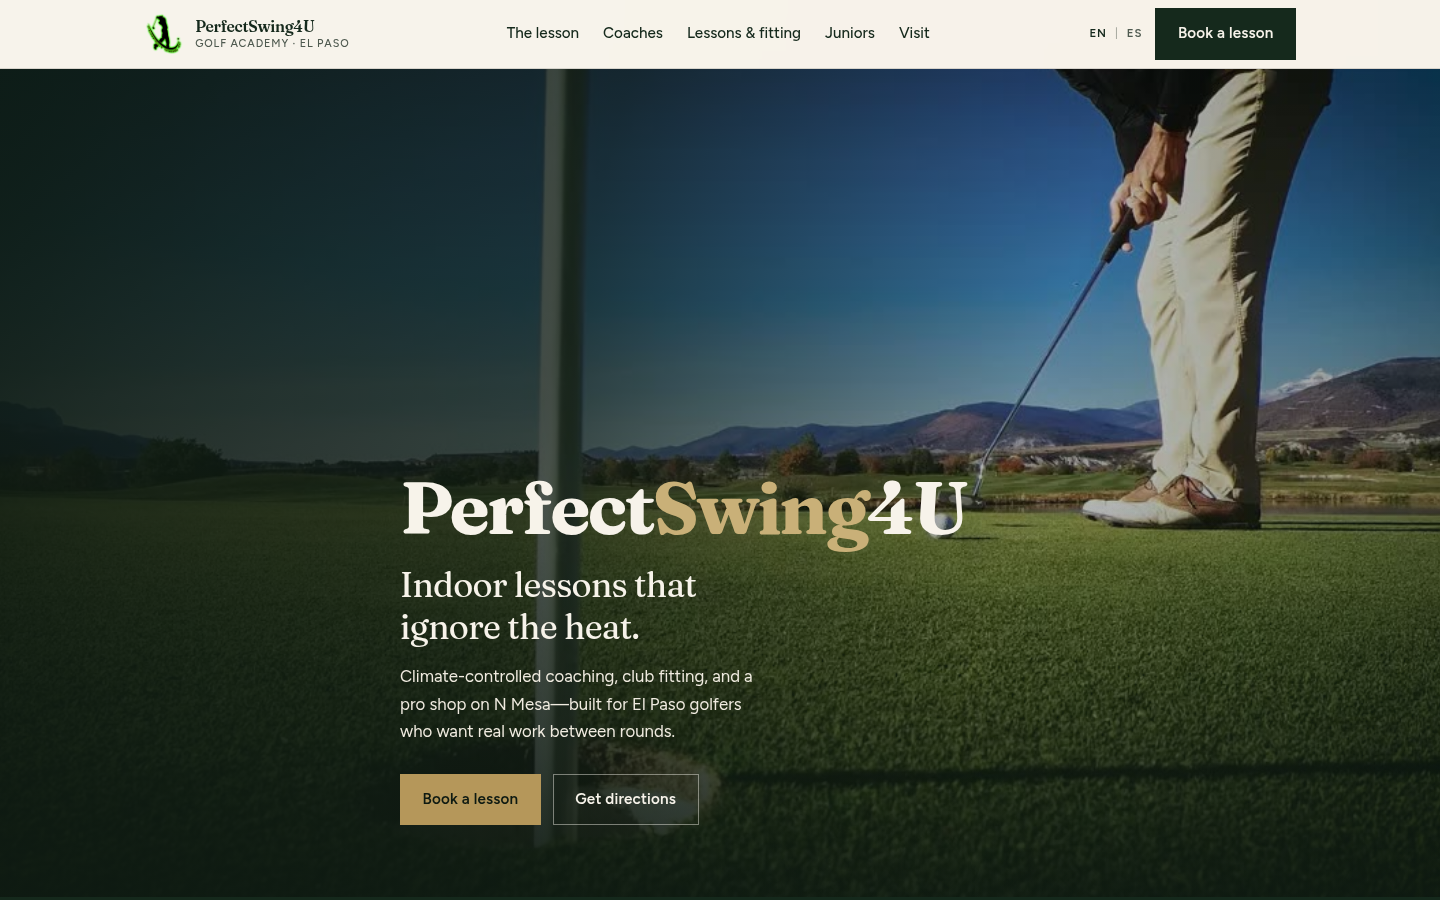
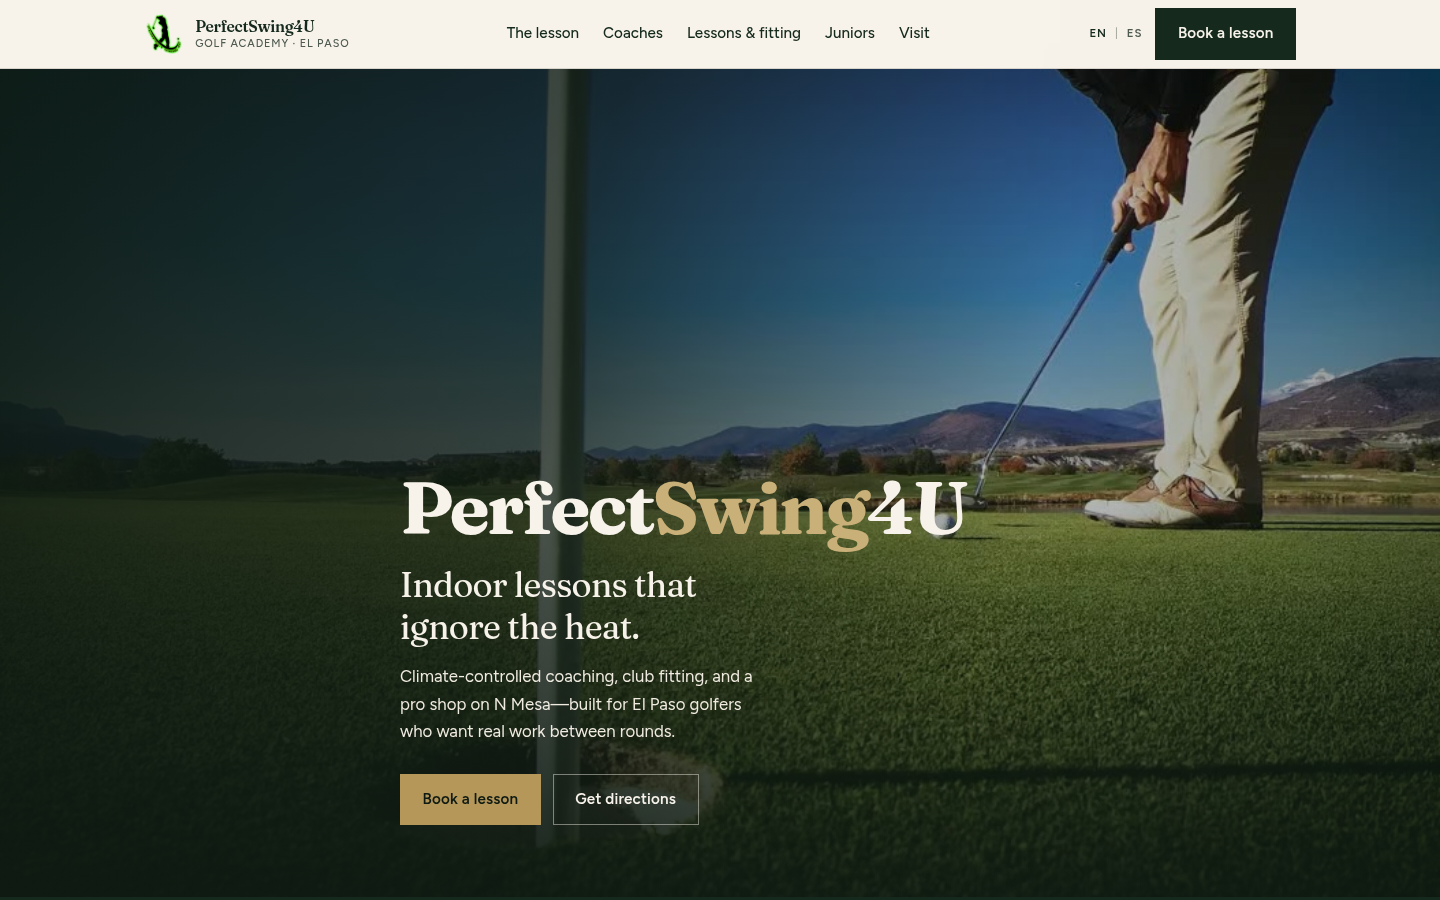
Fix Draft A review: mobile hero crop, domain, credentials
Reposition the mobile hero so type sits on clean space, drop Fort Bliss,
point canonical/OG/JSON-LD at perfectswing4u.com with geo, and keep only
credential badges in Yaser’s list (tools + U.S. Kids live in the bio).

diff --git a/i18n.js b/i18n.js
@@ -17,7 +17,7 @@ window.PS4U_I18N = {
     "hero.lead": "Climate-controlled coaching, club fitting, and a pro shop on N Mesa—built for El Paso golfers who want real work between rounds.",
     "hero.directions": "Get directions",
     "intro.main": "One indoor bay. Two coaches. Launch-monitor numbers you can trust when the desert is at 100°.",
-    "intro.aside": "Perfect Swing 4U Golf Academy is an indoor, climate-controlled studio for instruction, fitting, and equipment—serving beginners through advanced players, including juniors, high schoolers, women, and military and veterans near Fort Bliss.",
+    "intro.aside": "Perfect Swing 4U Golf Academy is an indoor, climate-controlled studio for instruction, fitting, and equipment—serving beginners through advanced players, including juniors, high schoolers, women, and military and veterans.",
     "lesson.label": "What a lesson looks like",
     "lesson.title": "You hit. We measure. Then we coach.",
     "lesson.copy": "Sessions run one-on-one. Walk-ins are welcome when a coach is free, and we have clubs if you don’t bring your own.",
@@ -47,9 +47,7 @@ window.PS4U_I18N = {
     "yaser.cred3": "ADM certified",
     "yaser.cred4": "TPI Level 2",
     "yaser.cred5": "Capto Putting certified",
-    "yaser.cred6": "FlightScope, Capto putting, multi-angle video",
-    "yaser.cred7": "El Paso tour director for U.S. Kids Golf",
-    "yaser.bio": "“No two golfers are the same. I work closely with you to understand your strengths and areas for improvement, and develop a coaching plan tailored to your unique needs and goals.” Yaser’s methodology covers all three pillars: physical conditioning, mental preparation, and technical skills training working together as one system. With 13+ years playing competitive golf, he dedicated his career to sharing the game—bringing swing mechanics, Capto putting mastery, TPI fitness, and club fitting expertise under one roof.",
+    "yaser.bio": "“No two golfers are the same. I work closely with you to understand your strengths and areas for improvement, and develop a coaching plan tailored to your unique needs and goals.” Yaser’s methodology covers all three pillars: physical conditioning, mental preparation, and technical skills training working together as one system. With 13+ years playing competitive golf, he dedicated his career to sharing the game—bringing FlightScope launch-monitor work, multi-angle video, Capto putting mastery, TPI fitness, and club fitting under one roof. He also serves as El Paso tour director for U.S. Kids Golf.",
     "memo.name": "Memo",
     "memo.role": "Instructor & club fitting specialist",
     "memo.cred1": "Private and junior instruction",
@@ -141,7 +139,7 @@ window.PS4U_I18N = {
     "hero.lead": "Entrenamiento con clima controlado, ajuste de palos y pro shop en N Mesa—para golfistas de El Paso que quieren trabajo real entre rondas.",
     "hero.directions": "Cómo llegar",
     "intro.main": "Una bahía bajo techo. Dos coaches. Números de launch monitor en los que puedes confiar cuando el desierto marca 100°.",
-    "intro.aside": "Perfect Swing 4U Golf Academy es un estudio bajo techo con clima controlado para instrucción, fitting y equipo—de principiantes a avanzados, incluyendo junior, preparatoria, mujeres y militares y veteranos cerca de Fort Bliss.",
+    "intro.aside": "Perfect Swing 4U Golf Academy es un estudio bajo techo con clima controlado para instrucción, fitting y equipo—de principiantes a avanzados, incluyendo junior, preparatoria, mujeres y militares y veteranos.",
     "lesson.label": "Cómo es una clase",
     "lesson.title": "Tú pegas. Nosotros medimos. Luego entrenamos.",
     "lesson.copy": "Las sesiones son uno a uno. Aceptamos walk-ins cuando hay coach disponible, y tenemos palos si no traes los tuyos.",
@@ -171,9 +169,7 @@ window.PS4U_I18N = {
     "yaser.cred3": "Certificado ADM",
     "yaser.cred4": "TPI Level 2",
     "yaser.cred5": "Certificado Capto Putting",
-    "yaser.cred6": "FlightScope, putting Capto, video multiángulo",
-    "yaser.cred7": "Director de tour de El Paso para U.S. Kids Golf",
-    "yaser.bio": "“No two golfers are the same. I work closely with you to understand your strengths and areas for improvement, and develop a coaching plan tailored to your unique needs and goals.” La metodología de Yaser cubre tres pilares: condición física, preparación mental y técnica, trabajando como un solo sistema. Con más de 13 años de golf competitivo, dedicó su carrera a compartir el juego—mecánica de swing, putting con Capto, fitness TPI y expertise en club fitting bajo un mismo techo.",
+    "yaser.bio": "“No two golfers are the same. I work closely with you to understand your strengths and areas for improvement, and develop a coaching plan tailored to your unique needs and goals.” La metodología de Yaser cubre tres pilares: condición física, preparación mental y técnica, trabajando como un solo sistema. Con más de 13 años de golf competitivo, dedicó su carrera a compartir el juego—FlightScope, video multiángulo, putting con Capto, fitness TPI y club fitting bajo un mismo techo. También es director de tour de El Paso para U.S. Kids Golf.",
     "memo.name": "Memo",
     "memo.role": "Instructor y especialista en club fitting",
     "memo.cred1": "Instrucción privada y junior",

diff --git a/index.html b/index.html
@@ -6,7 +6,7 @@
   <title>Perfect Swing 4U Golf Academy | Indoor Coaching in El Paso, TX</title>
   <meta name="description" content="Indoor, climate-controlled golf instruction, club fitting, and a pro shop on N Mesa in El Paso. Book a lesson with PerfectSwing4U.">
   <meta name="theme-color" content="#15291c">
-  <link rel="canonical" href="https://perfectswing4u.org/">
+  <link rel="canonical" href="https://perfectswing4u.com/">
   <link rel="icon" type="image/png" href="assets/favicon.png">
 
   <meta property="og:type" content="website">
@@ -15,7 +15,7 @@
   <meta property="og:site_name" content="PerfectSwing4U">
   <meta property="og:title" content="Perfect Swing 4U Golf Academy | Indoor Coaching in El Paso">
   <meta property="og:description" content="Climate-controlled indoor golf lessons, FlightScope data, Capto putting, and club fitting at 5864 N Mesa St, Suite A, El Paso, TX.">
-  <meta property="og:url" content="https://perfectswing4u.org/">
+  <meta property="og:url" content="https://perfectswing4u.com/">
   <meta property="og:image" content="assets/swing-poster.jpg">
   <meta property="og:image:alt" content="Golfer mid-swing at Perfect Swing 4U Golf Academy">
 
@@ -37,10 +37,10 @@
     "name": "Perfect Swing 4U Golf Academy",
     "alternateName": "PerfectSwing4U",
     "description": "Indoor, climate-controlled golf instruction, club fitting, and pro shop in El Paso, TX.",
-    "url": "https://perfectswing4u.org/",
+    "url": "https://perfectswing4u.com/",
     "telephone": "+19154493613",
     "email": "perfectswing4u@gmail.com",
-    "image": "https://perfectswing4u.org/public/images/logo.webp",
+    "image": "https://perfectswing4u.com/assets/logo.webp",
     "address": {
       "@type": "PostalAddress",
       "streetAddress": "5864 N Mesa St, Suite A",
@@ -48,6 +48,11 @@
       "addressRegion": "TX",
       "postalCode": "79912",
       "addressCountry": "US"
+    },
+    "geo": {
+      "@type": "GeoCoordinates",
+      "latitude": 31.8281,
+      "longitude": -106.5267
     },
     "openingHoursSpecification": [
       {
@@ -129,7 +134,7 @@
       <div class="wrap intro-grid">
         <p data-i18n="intro.main">One indoor bay. Two coaches. Launch-monitor numbers you can trust when the desert is at 100°.</p>
         <p class="intro-aside" data-i18n="intro.aside">
-          Perfect Swing 4U Golf Academy is an indoor, climate-controlled studio for instruction, fitting, and equipment—serving beginners through advanced players, including juniors, high schoolers, women, and military and veterans near Fort Bliss.
+          Perfect Swing 4U Golf Academy is an indoor, climate-controlled studio for instruction, fitting, and equipment—serving beginners through advanced players, including juniors, high schoolers, women, and military and veterans.
         </p>
       </div>
     </section>
@@ -229,11 +234,9 @@
                 <li data-i18n="yaser.cred3">ADM certified</li>
                 <li data-i18n="yaser.cred4">TPI Level 2</li>
                 <li data-i18n="yaser.cred5">Capto Putting certified</li>
-                <li data-i18n="yaser.cred6">FlightScope, Capto putting, multi-angle video</li>
-                <li data-i18n="yaser.cred7">El Paso tour director for U.S. Kids Golf</li>
               </ul>
               <p class="coach-bio" data-i18n="yaser.bio">
-                “No two golfers are the same. I work closely with you to understand your strengths and areas for improvement, and develop a coaching plan tailored to your unique needs and goals.” Yaser’s methodology covers all three pillars: physical conditioning, mental preparation, and technical skills training working together as one system. With 13+ years playing competitive golf, he dedicated his career to sharing the game—bringing swing mechanics, Capto putting mastery, TPI fitness, and club fitting expertise under one roof.
+                “No two golfers are the same. I work closely with you to understand your strengths and areas for improvement, and develop a coaching plan tailored to your unique needs and goals.” Yaser’s methodology covers all three pillars: physical conditioning, mental preparation, and technical skills training working together as one system. With 13+ years playing competitive golf, he dedicated his career to sharing the game—bringing FlightScope launch-monitor work, multi-angle video, Capto putting mastery, TPI fitness, and club fitting under one roof. He also serves as El Paso tour director for U.S. Kids Golf.
               </p>
             </div>
           </article>

diff --git a/styles.css b/styles.css
@@ -377,9 +377,40 @@ a:hover {
   width: 100%;
   height: 100%;
   object-fit: cover;
-  object-position: 28% center;
+  object-position: 22% 42%;
   transform: scale(1.02);
   animation: hero-drift 18s var(--ease) infinite alternate;
+}
+
+/* Mobile: frame sky/mountains above; keep type on a solid dark lower field */
+@media (max-width: 720px) {
+  .hero-media img {
+    object-position: 78% 12%;
+    transform: scale(1.06);
+    animation: none;
+  }
+
+  .hero-shade {
+    background:
+      linear-gradient(
+        180deg,
+        rgba(14, 26, 18, 0.2) 0%,
+        rgba(14, 26, 18, 0.35) 28%,
+        rgba(14, 26, 18, 0.88) 52%,
+        rgba(14, 26, 18, 0.97) 68%,
+        rgba(14, 26, 18, 0.99) 100%
+      );
+  }
+
+  .hero-content {
+    max-width: 100%;
+  }
+
+  .hero-brand,
+  .hero h1,
+  .hero-lead {
+    text-shadow: none;
+  }
 }
 
 @keyframes hero-drift {
